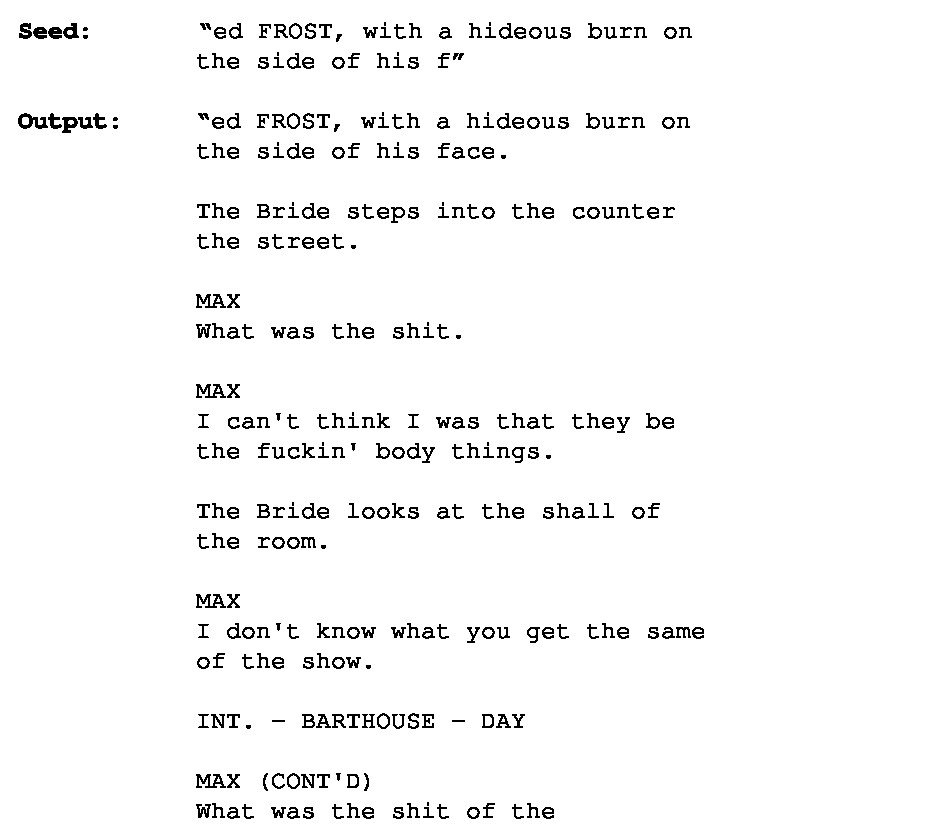
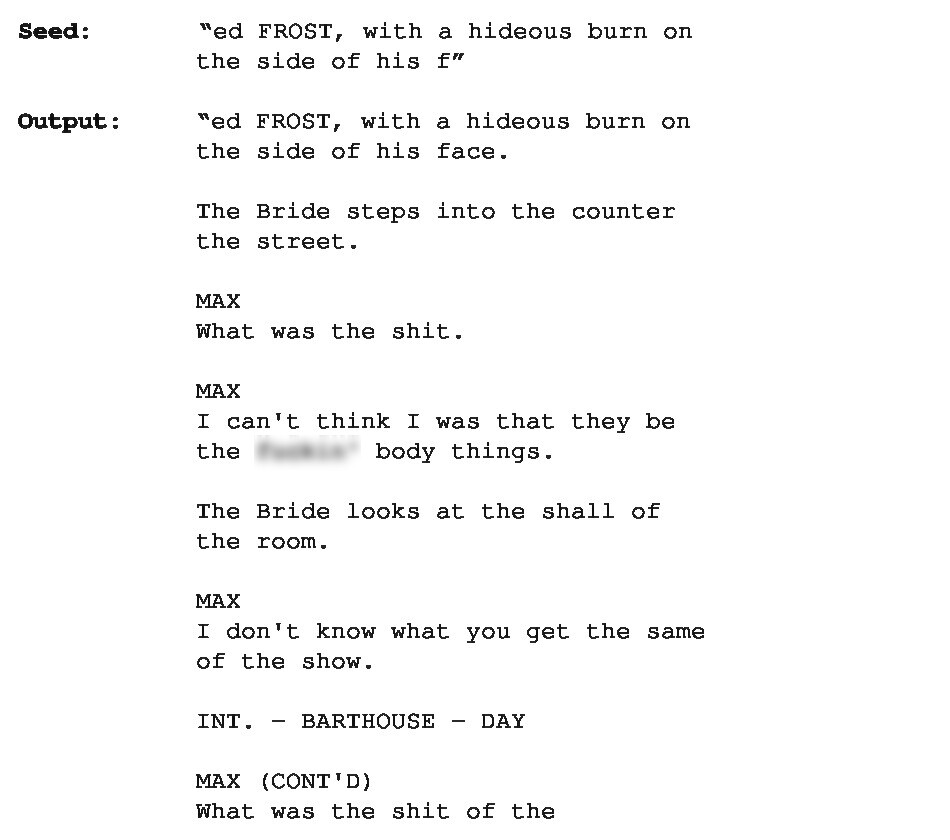
scrubbed curse words

diff --git a/projects/script-generator/index.html b/projects/script-generator/index.html
@@ -535,7 +535,7 @@
 
 <div class="article-header article-container featured-image-wrapper mt-4 mb-4" style="max-width: 720px; max-height: 541px;">
   <div style="position: relative">
-    <img src="/projects/script-generator/featured_hu7726ace16c9775bfcf2ebe8e9c53d723_49094_720x0_resize_q90_lanczos.jpg" alt="" class="featured-image">
+    <img src="/projects/script-generator/featured_hud7535c538a83eef25e5894946fde27b3_47814_720x0_resize_q90_lanczos.jpg" alt="" class="featured-image">
     <span class="article-header-caption">Royale with cheese scene from <em>Pulp Fiction</em>.</span>
   </div>
 </div>
@@ -775,6 +775,23 @@ Thomas Dehaene must have had the same thought regarding Hallmark movies, as he j
           <li>
             <a itemprop="sameAs" href="https://scholar.google.com/citations?user=tEPiW54AAAAJ&amp;hl=en" target="_blank" rel="noopener">
               <i class="ai ai-google-scholar"></i>
+            </a>
+          </li>
+        
+          
+          
+          
+            
+          
+          
+          
+          
+          
+            
+          
+          <li>
+            <a itemprop="sameAs" href="https://github.com/zperzan" target="_blank" rel="noopener">
+              <i class="fab fa-github"></i>
             </a>
           </li>
         

diff --git a/index.html b/index.html
@@ -456,6 +456,23 @@
         
         
         
+          
+        
+        
+        
+        
+        
+          
+        
+        <li>
+          <a itemprop="sameAs" href="https://github.com/zperzan" target="_blank" rel="noopener">
+            <i class="fab fa-github big-icon"></i>
+          </a>
+        </li>
+        
+        
+        
+        
         
         
         
@@ -1225,7 +1242,7 @@
     
     
     <a href="/projects/script-generator/"  class="card-image hover-overlay">
-      <img src="/projects/script-generator/featured_hu7726ace16c9775bfcf2ebe8e9c53d723_49094_550x0_resize_q90_lanczos.jpg" alt="" class="img-responsive">
+      <img src="/projects/script-generator/featured_hud7535c538a83eef25e5894946fde27b3_47814_550x0_resize_q90_lanczos.jpg" alt="" class="img-responsive">
     </a>
     
     <div class="card-text">

diff --git a/projects/lidar-caves/index.html b/projects/lidar-caves/index.html
@@ -657,6 +657,23 @@
           
           
           
+            
+          
+          
+          
+          
+          
+            
+          
+          <li>
+            <a itemprop="sameAs" href="https://github.com/zperzan" target="_blank" rel="noopener">
+              <i class="fab fa-github"></i>
+            </a>
+          </li>
+        
+          
+          
+          
           
           
           

diff --git a/research/bottled-water/index.html b/research/bottled-water/index.html
@@ -646,6 +646,23 @@
           
           
           
+            
+          
+          
+          
+          
+          
+            
+          
+          <li>
+            <a itemprop="sameAs" href="https://github.com/zperzan" target="_blank" rel="noopener">
+              <i class="fab fa-github"></i>
+            </a>
+          </li>
+        
+          
+          
+          
           
           
           

diff --git a/research/cv-mar/index.html b/research/cv-mar/index.html
@@ -638,6 +638,23 @@
           
           
           
+            
+          
+          
+          
+          
+          
+            
+          
+          <li>
+            <a itemprop="sameAs" href="https://github.com/zperzan" target="_blank" rel="noopener">
+              <i class="fab fa-github"></i>
+            </a>
+          </li>
+        
+          
+          
+          
           
           
           

diff --git a/research/riverton/index.html b/research/riverton/index.html
@@ -639,6 +639,23 @@
           
           
           
+            
+          
+          
+          
+          
+          
+            
+          
+          <li>
+            <a itemprop="sameAs" href="https://github.com/zperzan" target="_blank" rel="noopener">
+              <i class="fab fa-github"></i>
+            </a>
+          </li>
+        
+          
+          
+          
           
           
           

diff --git a/research/sensors/index.html b/research/sensors/index.html
@@ -646,6 +646,23 @@
           
           
           
+            
+          
+          
+          
+          
+          
+            
+          
+          <li>
+            <a itemprop="sameAs" href="https://github.com/zperzan" target="_blank" rel="noopener">
+              <i class="fab fa-github"></i>
+            </a>
+          </li>
+        
+          
+          
+          
           
           
           

diff --git a/research/weybridge-cave/index.html b/research/weybridge-cave/index.html
@@ -656,6 +656,23 @@
           
           
           
+            
+          
+          
+          
+          
+          
+            
+          
+          <li>
+            <a itemprop="sameAs" href="https://github.com/zperzan" target="_blank" rel="noopener">
+              <i class="fab fa-github"></i>
+            </a>
+          </li>
+        
+          
+          
+          
           
           
           

diff --git a/authors/admin/index.html b/authors/admin/index.html
@@ -416,6 +416,23 @@
         
         
         
+          
+        
+        
+        
+        
+        
+          
+        
+        <li>
+          <a itemprop="sameAs" href="https://github.com/zperzan" target="_blank" rel="noopener">
+            <i class="fab fa-github big-icon"></i>
+          </a>
+        </li>
+        
+        
+        
+        
         
         
         
